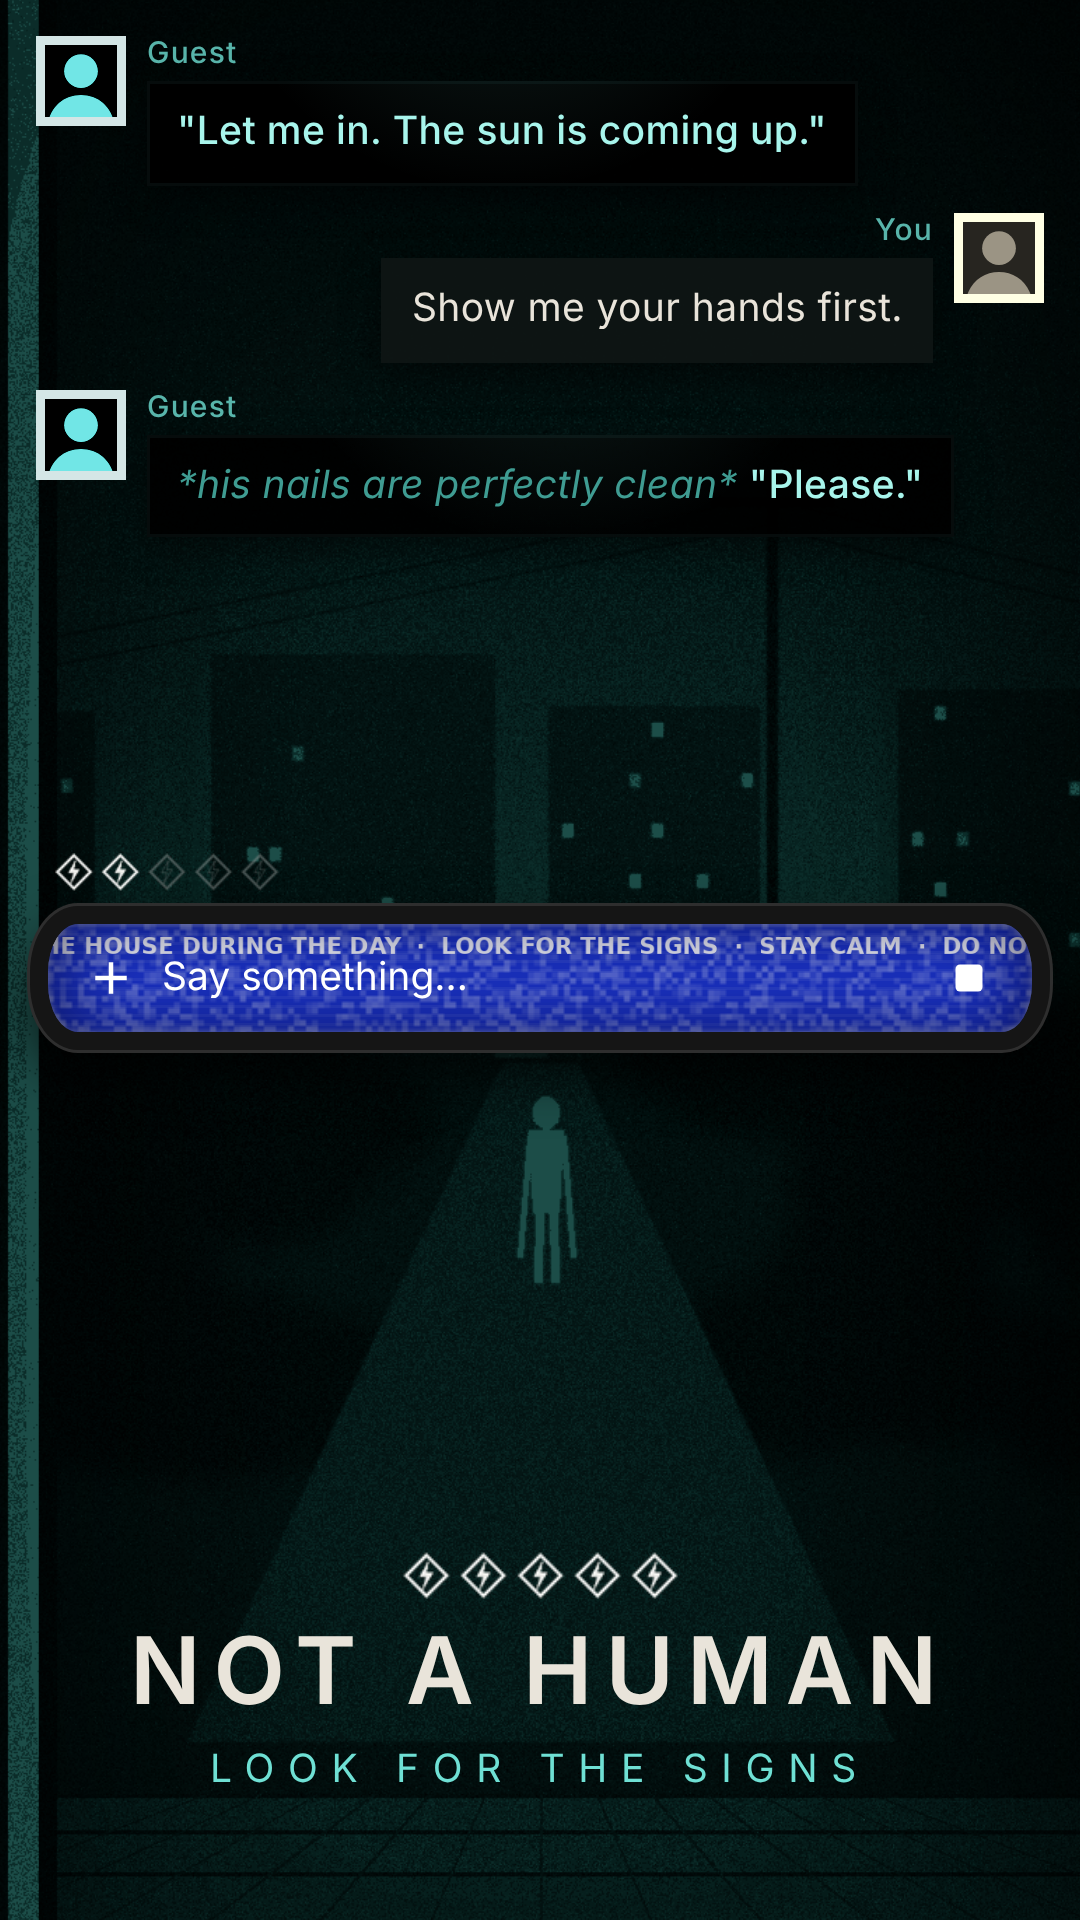
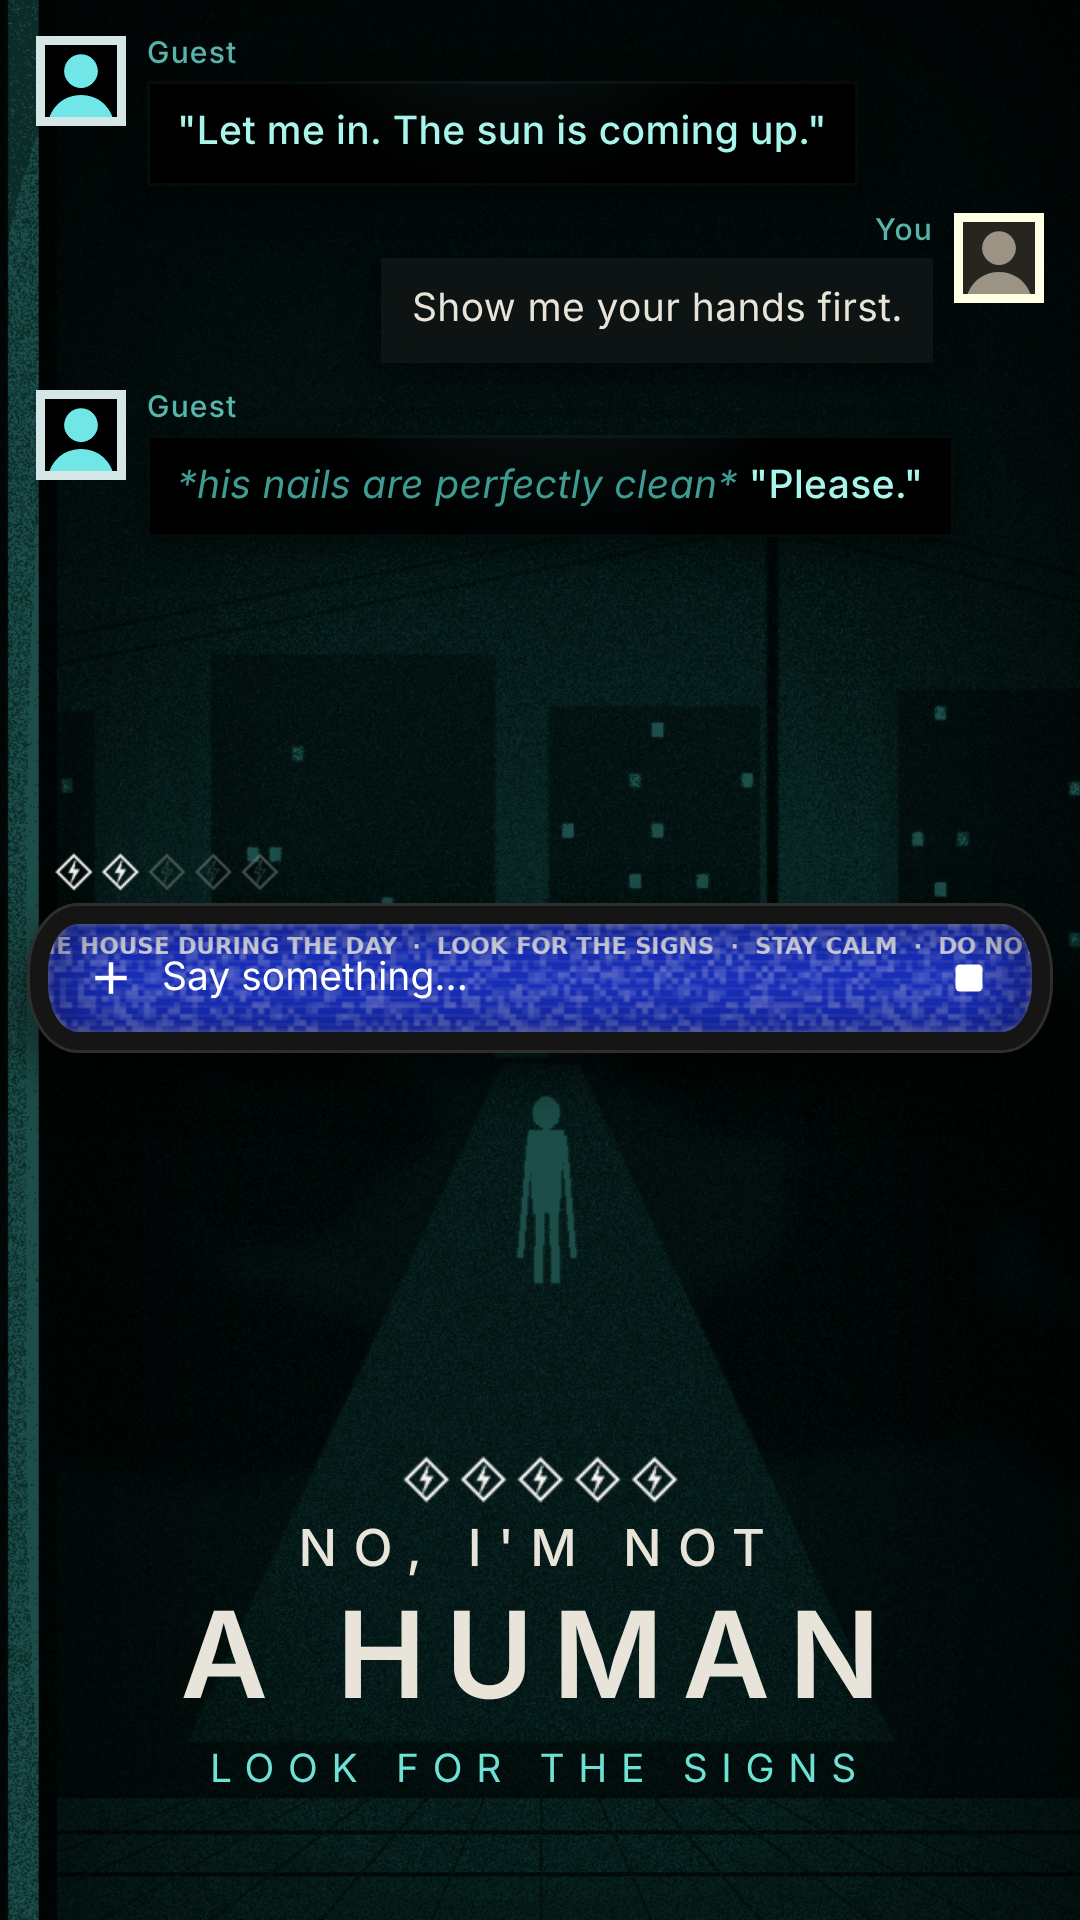
Rename Not a Human theme to No, I'm Not a Human
Claude-Session: https://claude.ai/code/session_011AdgnKtmEQrsYZ6duuAFrr

diff --git a/tools/hub-previews.js b/tools/hub-previews.js
@@ -33,7 +33,8 @@ const THEMES = [
     bg: 'center -75px / 420px auto',
     name: 'Guest',
     title: `<img src="ASSETS/energy-5.png" style="height:16px">
-      <div style="font:600 31px Inter,sans-serif;color:#e9e4da;letter-spacing:.14em;white-space:nowrap">NOT A HUMAN</div>
+      <div style="font:500 17px Inter,sans-serif;color:#e9e4da;letter-spacing:.32em;white-space:nowrap">NO, I'M NOT</div>
+      <div style="font:600 40px Inter,sans-serif;color:#e9e4da;letter-spacing:.16em;white-space:nowrap;margin-top:-6px">A HUMAN</div>
       <div style="font:400 13px Inter,sans-serif;color:#6fe0d4;letter-spacing:.35em">LOOK FOR THE SIGNS</div>`,
     avatar: ['#6fe0d4', '#04100e'],
     lines: [

diff --git a/themes/not-a-human/build.py b/themes/not-a-human/build.py
@@ -1,4 +1,4 @@
-"""Сборка темы «Not a Human» для Tavo в двух версиях: с надписями и без.
+"""Сборка темы «No, I'm Not a Human» для Tavo в двух версиях: с надписями и без.
 
 Визуальный язык игры: монохромная ночная бирюза, зерно, вид «через глазок»
 со скруглённой тёмной виньеткой, чёрные плашки реплик, синий CRT-экран,
@@ -257,8 +257,8 @@ def main():
     labels_css = labels_css.replace("TICKER_W", str(tw)).replace("TICKER_H", str(th))
     common = ["night-porch.png", "static.png"] + [f"energy-{i}.png" for i in range(6)]
 
-    package("not-a-human-silent.thm", "Not a Human // Silent", base_css, common)
-    labeled = package("not-a-human.thm", "Not a Human // Visitor Check",
+    package("not-a-human-silent.thm", "No, I'm Not a Human // Silent", base_css, common)
+    labeled = package("not-a-human.thm", "No, I'm Not a Human // Visitor Check",
                       base_css + "\n" + labels_css, common + ["ticker.png"])
     (HERE / "theme.json").write_text(json.dumps(labeled, ensure_ascii=False, indent=2) + "\n", encoding="utf-8")
 

diff --git a/themes/not-a-human/README.md b/themes/not-a-human/README.md
@@ -1,4 +1,4 @@
-# Not a Human
+# No, I'm Not a Human
 
 Тема для Tavo по мотивам хоррора «No, I'm Not a Human» (Trioskaz). Визуальный язык взят со скриншотов игры:
 
@@ -8,8 +8,8 @@
 - **Вложения** в такой же светлой рамке, как вставка с руками при осмотре.
 
 Две версии:
-- `dist/not-a-human.thm` — «Not a Human // Visitor Check», с английскими надписями.
-- `dist/not-a-human-silent.thm` — «Not a Human // Silent», без надписей.
+- `dist/not-a-human.thm` — «No, I'm Not a Human // Visitor Check», с английскими надписями.
+- `dist/not-a-human-silent.thm` — «No, I'm Not a Human // Silent», без надписей.
 
 Нужен **Advanced Rendering**. Пересборка: `python3 themes/not-a-human/build.py` (Pillow и numpy). Общий CSS лежит в `style.css`, надписи в `labels.css`.
 
